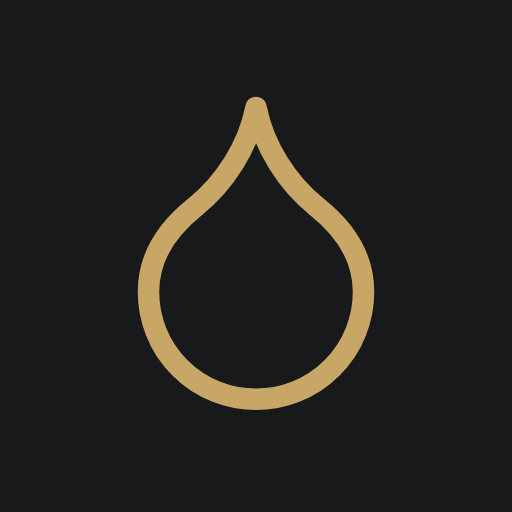
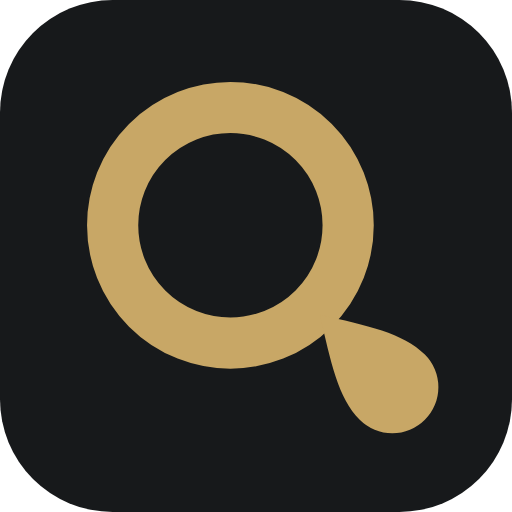
feat: el ícono de Qlarity, una Q cuya cola es una gota
La gota provisional deja lugar a la marca: una Q en latón sobre grafito
cuya cola es una gota que se desprende. Se eligió entre cinco variantes
comparadas a 16, 32, 64 y 180 px sobre fondo claro y oscuro. La Q clásica,
con la cola recta a 45°, se leía como una lupa, y el panel tiene un buscador
de placas; la gota la distingue hasta en la pestaña del navegador.

- `favicon.svg`, `icon-192.png` e `icon-512.png` con la marca nueva.
- `icon-maskable-512.png`, nuevo: a sangre y con la Q dentro de la zona
  segura, porque Android recorta el ícono con la máscara del teléfono
  (círculo, gota, cuadrado). Sin él, Android achicaba el ícono redondeado y
  lo ponía sobre un fondo blanco.
- `apple-touch-icon.png`, nuevo: iOS no lee el manifiesto. Antes apuntaba a
  `icon-192.png`, con las esquinas ya redondeadas, y iOS las redondeaba otra
  vez encima.
- `MarcaQ`: la misma Q en `currentColor`, junto al nombre en el login y el
  registro. Toma el latón de cada modo.

Claude-Session: https://claude.ai/code/session_01BjzuzQ25m1ZGqEPp9vP26z

diff --git a/frontend/src/pages/LoginPage.tsx b/frontend/src/pages/LoginPage.tsx
@@ -1,4 +1,5 @@
 import { useState, type FormEvent } from 'react';
+import MarcaQ from '../components/MarcaQ';
 import { useAuth } from '../hooks/useAuth';
 import { useNavigate, Link } from 'react-router-dom';
 import { ApiError } from '../lib/api';
@@ -30,14 +31,17 @@ export default function LoginPage() {
   return (
     <div className="min-h-screen flex items-center justify-center bg-gray-50 px-4 py-10">
       <div className="w-full max-w-sm">
-        {/* Marca: la palabra sola, ancha y espaciada, con una línea de latón. */}
+        {/* Marca: la Q y la palabra, ancha y espaciada, con una línea de latón. */}
         <div className="mb-10">
-          <p
-            className="text-[1.6rem] font-semibold uppercase text-gray-900 leading-none"
-            style={{ fontStretch: '125%', letterSpacing: '0.18em' }}
-          >
-            Qlarity
-          </p>
+          <div className="flex items-center gap-3">
+            <MarcaQ size={30} className="text-brand-600 shrink-0" />
+            <p
+              className="text-[1.6rem] font-semibold uppercase text-gray-900 leading-none"
+              style={{ fontStretch: '125%', letterSpacing: '0.18em' }}
+            >
+              Qlarity
+            </p>
+          </div>
           <div aria-hidden="true" className="w-10 h-px bg-brand-600 my-4" />
           <h1 className="text-sm font-normal text-gray-500" style={{ fontStretch: '100%' }}>Panel del lavadero</h1>
         </div>

diff --git a/frontend/src/pages/SignupPage.tsx b/frontend/src/pages/SignupPage.tsx
@@ -1,4 +1,5 @@
 import { Check, X } from 'lucide-react';
+import MarcaQ from '../components/MarcaQ';
 import { useState, type Dispatch, type SetStateAction, type HTMLInputTypeAttribute } from 'react';
 import { useNavigate, Link } from 'react-router-dom';
 import { useAuth } from '../hooks/useAuth';
@@ -186,12 +187,15 @@ export default function SignupPage() {
       <div className="max-w-xl mx-auto">
         {/* Brand */}
         <div className="mb-8">
-          <p
-            className="text-xl font-semibold uppercase text-gray-900 leading-none"
-            style={{ fontStretch: '125%', letterSpacing: '0.18em' }}
-          >
-            Qlarity
-          </p>
+          <div className="flex items-center gap-3">
+            <MarcaQ size={24} className="text-brand-600 shrink-0" />
+            <p
+              className="text-xl font-semibold uppercase text-gray-900 leading-none"
+              style={{ fontStretch: '125%', letterSpacing: '0.18em' }}
+            >
+              Qlarity
+            </p>
+          </div>
           <div aria-hidden="true" className="w-10 h-px bg-brand-600 my-4" />
           <h1 className="text-xl font-semibold text-gray-900">Crea tu cuenta</h1>
           <p className="text-gray-500 text-sm mt-1">Pon tu lavadero a operar en 2 minutos</p>

diff --git a/frontend/src/components/MarcaQ.tsx b/frontend/src/components/MarcaQ.tsx
@@ -1,0 +1,26 @@
+/**
+ * La marca de Qlarity: una Q cuya cola es una gota que se desprende.
+ *
+ * Es el mismo dibujo que `public/favicon.svg`, sin el fondo y en
+ * `currentColor`, para que tome el latón del modo en que esté el panel: más
+ * claro sobre grafito, más oscuro en el modo día.
+ */
+export default function MarcaQ({ size = 28, className = '' }: { size?: number; className?: string }) {
+  return (
+    <svg
+      viewBox="17 16 72 72"
+      width={size}
+      height={size}
+      className={className}
+      aria-hidden="true"
+      focusable="false"
+    >
+      <circle cx="45" cy="44" r="23" fill="none" stroke="currentColor" strokeWidth="10" />
+      <path
+        transform="translate(74.5 73.5) rotate(-45)"
+        d="M0 -17 C 5 -9 9 -3 9 3 A 9 9 0 1 1 -9 3 C -9 -3 -5 -9 0 -17 Z"
+        fill="currentColor"
+      />
+    </svg>
+  );
+}

diff --git a/frontend/vite.config.ts b/frontend/vite.config.ts
@@ -7,7 +7,7 @@ export default defineConfig({
     react(),
     VitePWA({
       registerType: 'autoUpdate',
-      includeAssets: ['favicon.svg'],
+      includeAssets: ['favicon.svg', 'apple-touch-icon.png'],
       manifest: {
         name: 'Qlarity — Panel del lavadero',
         short_name: 'Qlarity',
@@ -20,6 +20,9 @@ export default defineConfig({
         icons: [
           { src: '/icon-192.png', sizes: '192x192', type: 'image/png' },
           { src: '/icon-512.png', sizes: '512x512', type: 'image/png' },
+          // A sangre y con la Q dentro de la zona segura: Android recorta el
+          // ícono con la máscara del teléfono (círculo, gota, cuadrado).
+          { src: '/icon-maskable-512.png', sizes: '512x512', type: 'image/png', purpose: 'maskable' },
         ],
       },
       workbox: {

diff --git a/frontend/index.html b/frontend/index.html
@@ -8,7 +8,8 @@
     <meta name="theme-color" content="#121416" media="(prefers-color-scheme: dark)" />
     <meta name="theme-color" content="#F8F7F4" media="(prefers-color-scheme: light)" />
     <meta name="description" content="Gestión inteligente para tu lavadero de autos" />
-    <link rel="apple-touch-icon" href="/icon-192.png" />
+    <!-- iOS no usa el manifiesto: toma este, a sangre, y le redondea las esquinas él. -->
+    <link rel="apple-touch-icon" href="/apple-touch-icon.png" />
     <title>Qlarity · Panel del lavadero</title>
   </head>
   <body class="bg-gray-50 text-gray-900 antialiased">
